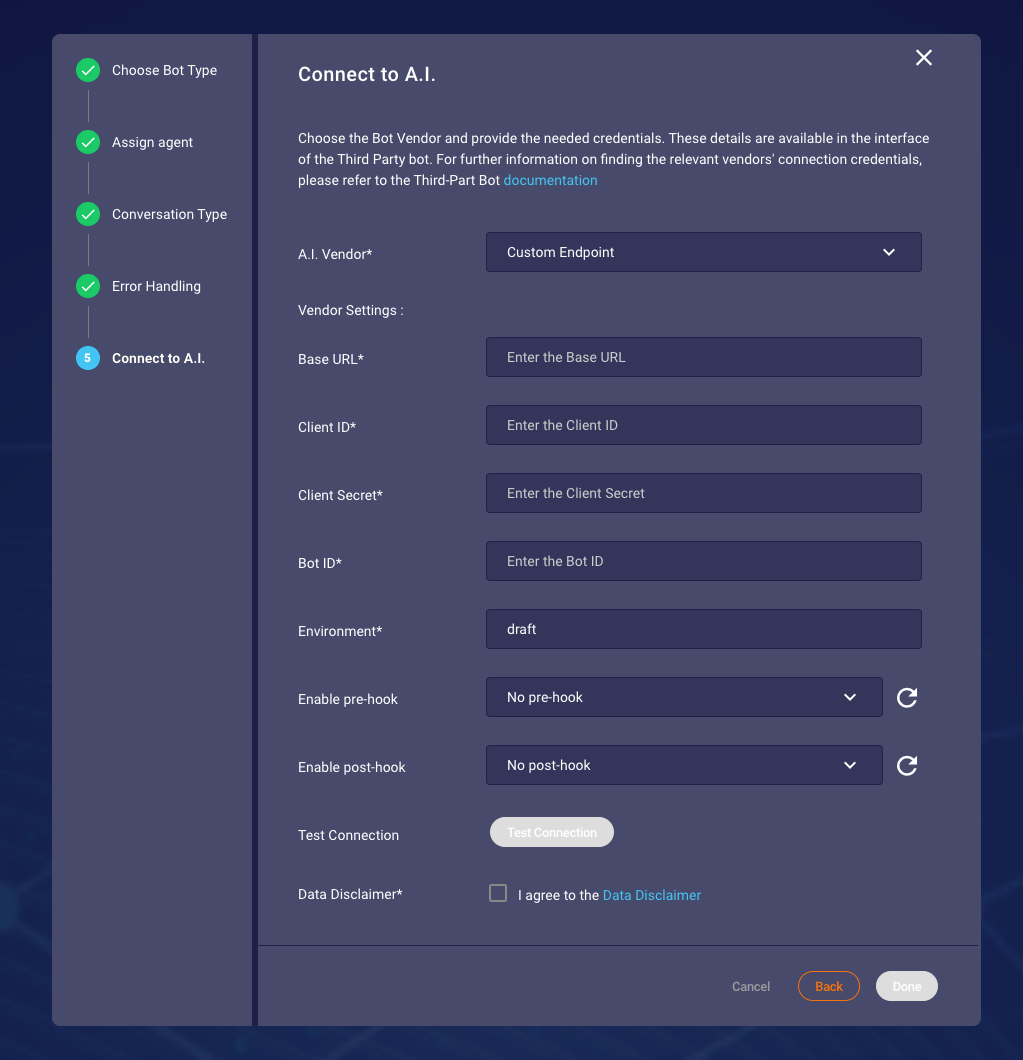
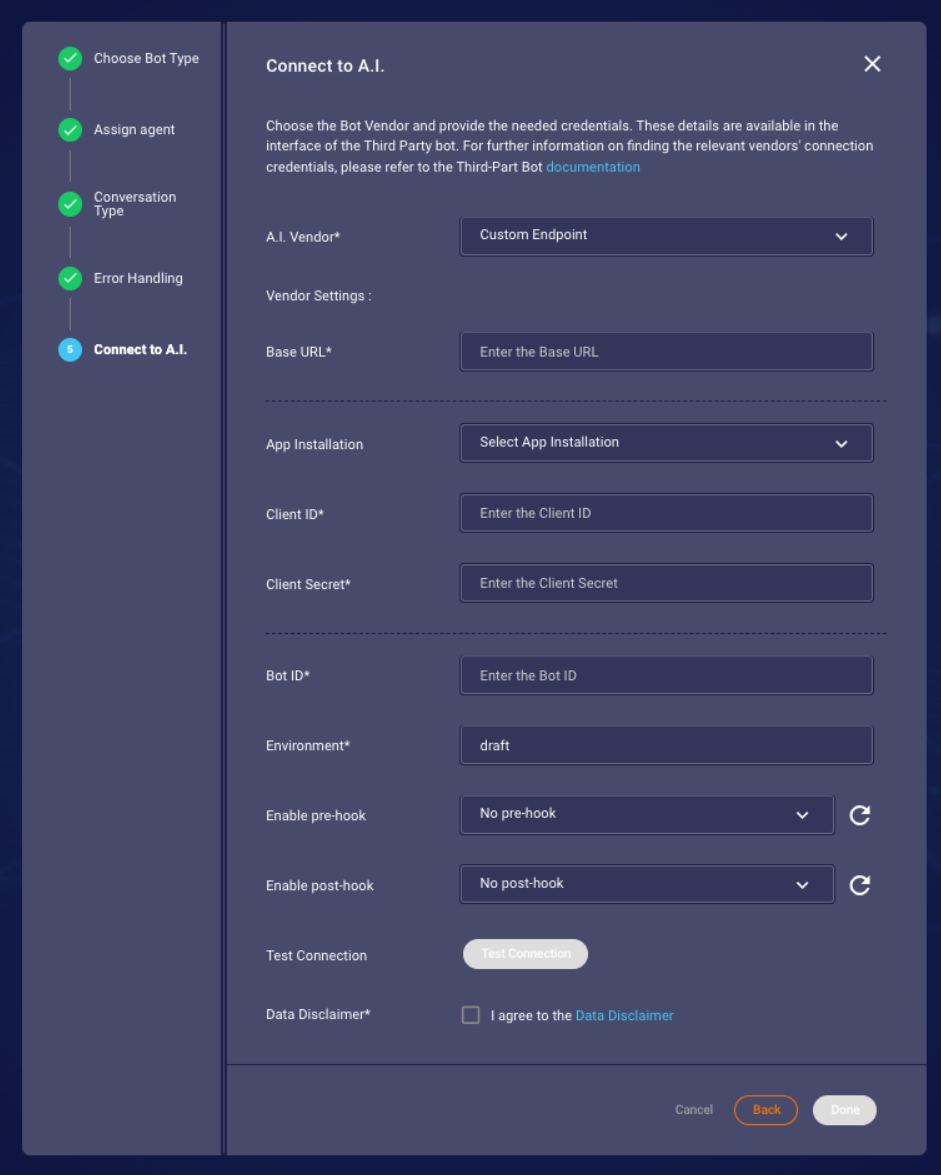
Custom Endpoint documentation update

diff --git a/pages/Documents/ConversationalAI/Third-PartyBots/CustomEndpoint/service-implementation.md b/pages/Documents/ConversationalAI/Third-PartyBots/CustomEndpoint/service-implementation.md
@@ -33,8 +33,11 @@ response is sent back.
 To connect to Third-Party Bots via the Custom Endpoint vendor few service endpoints
 methods must be implemented by brands that we will explain below. We also have provided
 a public [GitHub Repository](https://github.com/LivePersonInc/third-party-bots-custom-endpoint-reference-service)
-that contains the [OpenAPI Specification](https://swagger.io/specification). It includes
-detailed information on Request and Response bodies sent or expected by the Third-Party Bots.
+that includes:
+
+- [Node.js](https://nodejs.org/en/) sample implementation of custom endpoint service which mock the supported Bot responses
+- [OpenAPI Specification](https://swagger.io/specification) that describe endpoints and information on
+  Request and Response bodies sent or expected by the Third-Party Bots
 
 #### Get Bot Environments
 
@@ -57,7 +60,7 @@ This endpoint is expected to fetch the list of environments defined for a bot.
 
 Example of the response body that is expected by Third-Party Bots can be seen
 in Figure 2.2. Please refer to [GitHub Repository](https://github.com/LivePersonInc/third-party-bots-custom-endpoint-reference-service)
-for the latest endpoint contracts/interfaces.
+for the latest endpoint contracts/interfaces and service implementation.
 
 ```json
 ["draft", "alpha"]
@@ -93,7 +96,7 @@ is interpreted as a nonhealthy and unreachable bot.
 
 Example of the response body that is expected by Third-Party Bots can be seen
 in Figure 2.3. Please refer to [GitHub Repository](https://github.com/LivePersonInc/third-party-bots-custom-endpoint-reference-service)
-for the latest endpoint contracts/interfaces.
+for the latest endpoint contracts/interfaces and service implementation.
 
 ```json
 {
@@ -136,7 +139,7 @@ store or update [SDES](engagement-attributes-types-of-engagement-attributes.html
 
 Example of the request body that is sent by Third-Party Bots can be seen
 in Figure 2.4. Please refer to [GitHub Repository](https://github.com/LivePersonInc/third-party-bots-custom-endpoint-reference-service)
-for the latest endpoint contracts/interfaces.
+for the latest endpoint contracts/interfaces and service implementation.
 
 ```javascript
 {

diff --git a/pages/Documents/ConversationalAI/Third-PartyBots/CustomEndpoint/introduction.md b/pages/Documents/ConversationalAI/Third-PartyBots/CustomEndpoint/introduction.md
@@ -119,6 +119,11 @@ The following Custom Endpoint information should be provided to Third-Party Bots
   </tbody>
 </table>
 
+You can also use `App Installation` selector to fill-out the `Client ID` and`Client Secret` fields.
+If the selector is has no App Installations, then you have to do a Custom Endpoint
+[Application Install](conversational-cloud-applications-installing-conversational-cloud-applications.html).
+Contact your LivePerson account representative for assistance if you need help in this regard.
+
 {: .important}
 You have to agree to the Data Disclaimer to use the services of the Third-Party Bots connector.
 For that, you can click on the checkbox "I agree to the Data Disclaimer"
